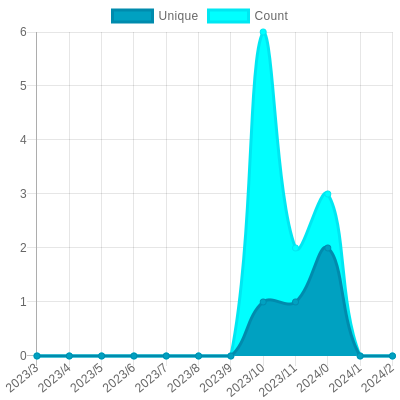
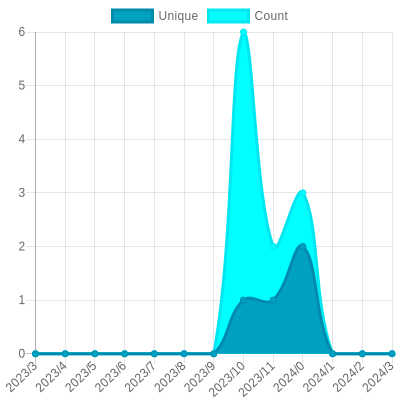
Update views

diff --git a/README.md b/README.md
@@ -26,7 +26,7 @@ The project created and maintained by [gayanvoice](https://github.com/gayanvoice
 			</a>
 		</td>
 		<td>
-			2023/3/30 1:04 AM UTC
+			2023/3/31 1:03 AM UTC
 		</td>
 		<td>
 			4
@@ -37,7 +37,7 @@ The project created and maintained by [gayanvoice](https://github.com/gayanvoice
 	</tr>
 </table>
 
-<small><i>Last updated on 2023/4/1 6:13 PM UTC</i></small>
+<small><i>Last updated on 2023/4/2 1:04 AM UTC</i></small>
 
 ## ✂Copy and 📋 Paste
 ### Total Views Badge

diff --git a/readme/570893005/year.md b/readme/570893005/year.md
@@ -20,6 +20,17 @@
 	</tr>
 	<tr>
 		<td>
+			<code>2023/4/1</code>
+		</td>
+		<td>
+			<code>0</code>
+		</td>
+		<td>
+			<code>0</code>
+		</td>
+	</tr>
+	<tr>
+		<td>
 			<code>2023/3/1</code>
 		</td>
 		<td>
@@ -153,7 +164,7 @@
 </table>
 
 </details>
-<small><i>Last updated on 2023/4/1 6:13 PM UTC</i></small>
+<small><i>Last updated on 2023/4/2 1:04 AM UTC</i></small>
 
 ## ✂Copy and 📋 Paste
 ### SVG Badge
